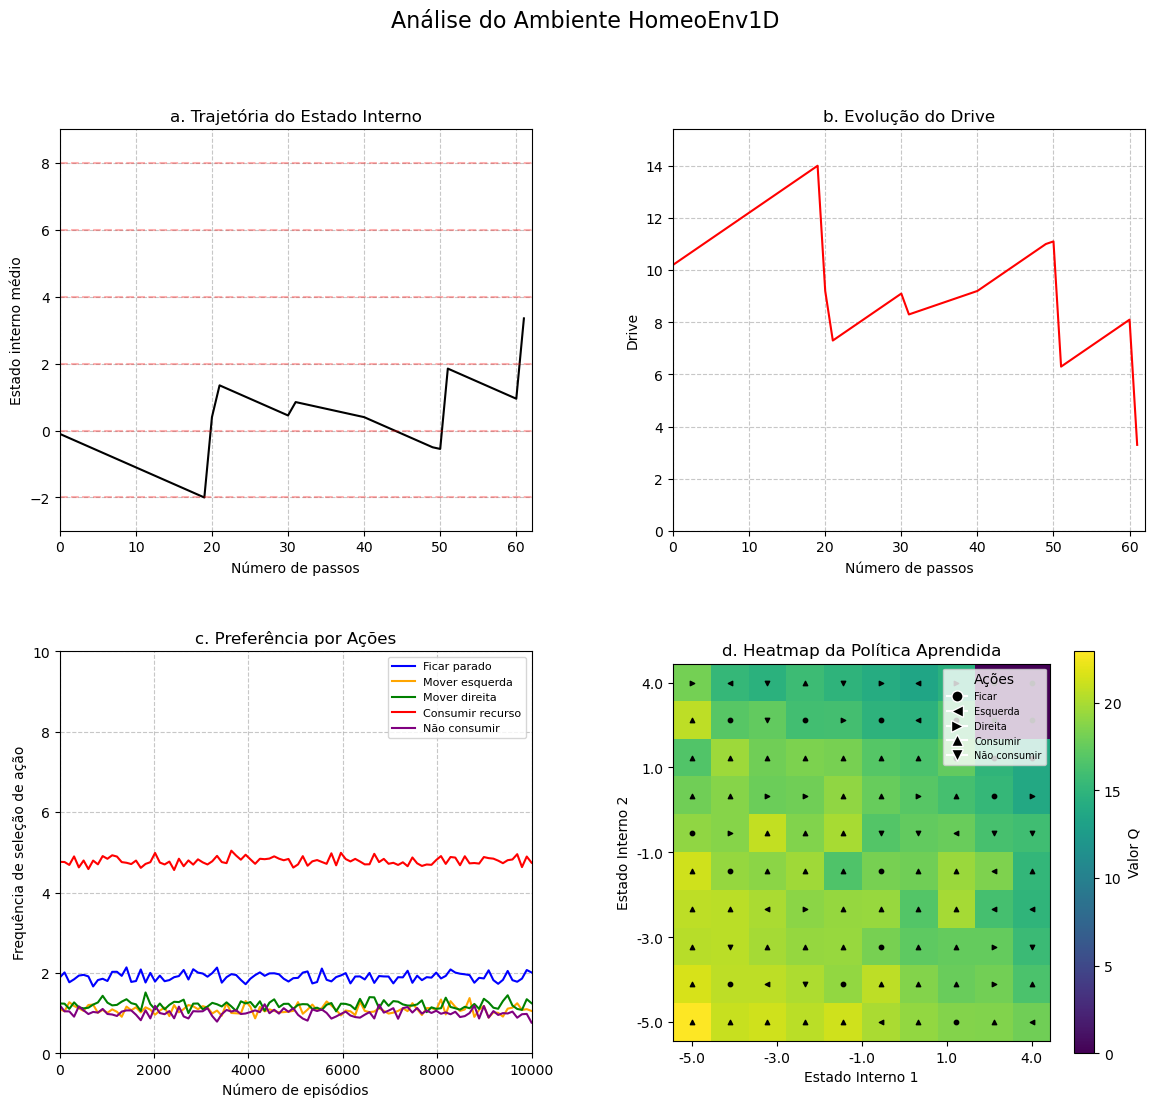
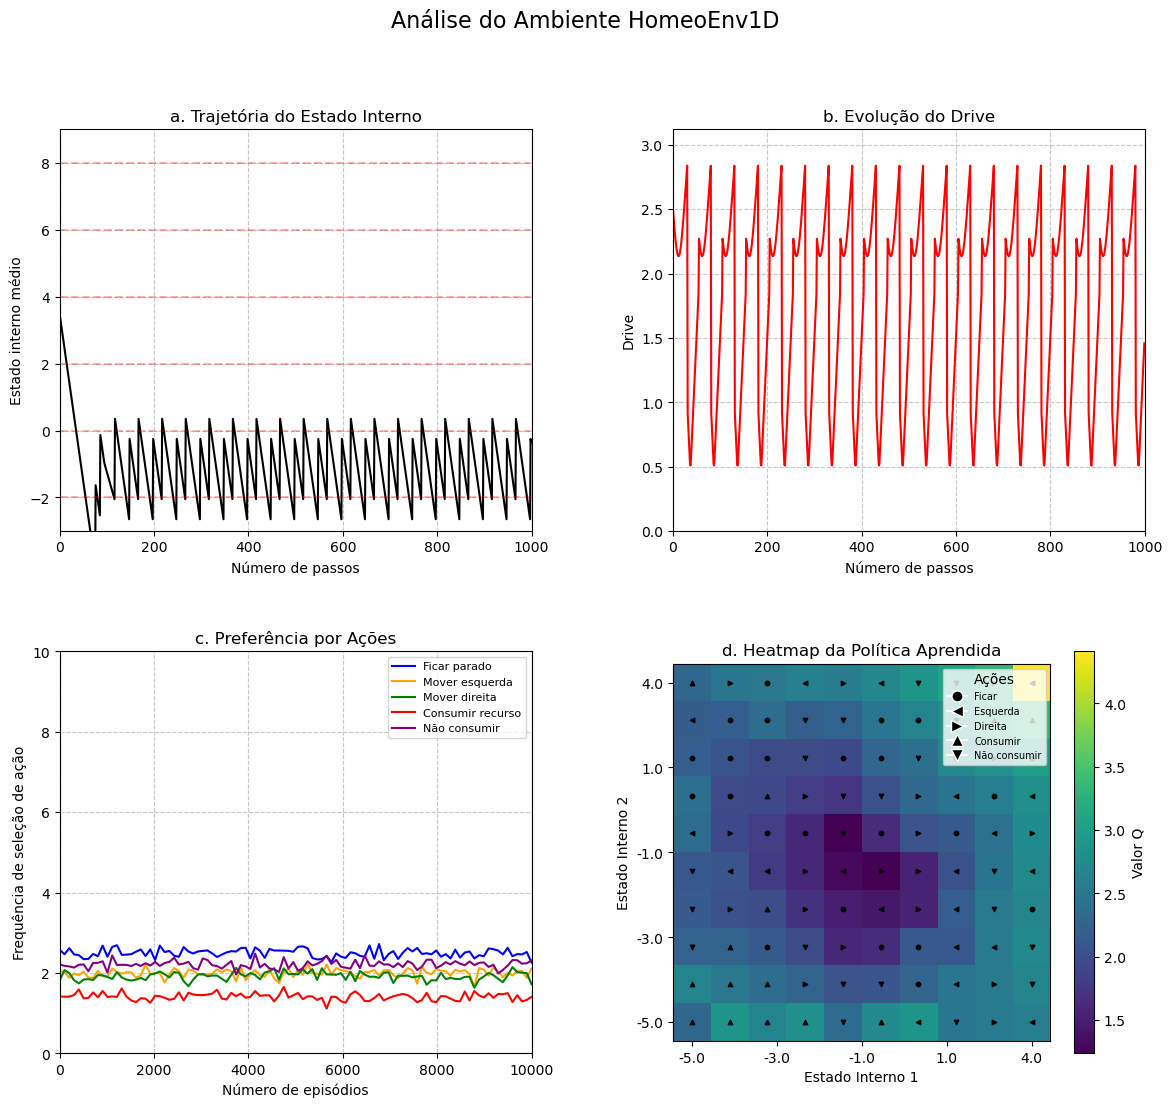
🚧 Done is nonsense in the case of HRRL, besides that we need to eliminate resources

diff --git a/src/custom_env/one_dimensional.py b/src/custom_env/one_dimensional.py
@@ -14,7 +14,7 @@ class HomeoEnv1D:
         self.render_mode = render_mode
         self.enable_visualization = enable_visualization
 
-        self._outcome = 5
+        self._outcome = 7
 
         self.param_manager = ParameterHandler(config_path)
         self.drive = self.param_manager.create_drive(drive_type)
@@ -23,7 +23,13 @@ class HomeoEnv1D:
         self.optimal_point = tuple(tensor.tolist())
 
         self.size = self.drive.get_internal_state_size()
-        self.current_state = np.zeros(self.size, dtype=np.float32)
+        # Gera um estado aleatório diferente do ótimo
+        while True:
+            random_state = np.random.uniform(-self.maxh, self.maxh, self.size).astype(np.float32)
+            if not np.allclose(random_state, self.optimal_point, atol=0.1):
+                break
+
+        self.current_state = random_state
         initial_drive = self.drive.compute_drive(self.current_state)
         self.drive.update_drive(initial_drive)
 
@@ -35,8 +41,8 @@ class HomeoEnv1D:
         self.learning_rate = 0.5
         self.gamma = 0.99
         self.epsilon = 1.0
-        self.epsilon_min = 0.001
-        self.epsilon_decay = 0.999
+        self.epsilon_min = 0.05
+        self.epsilon_decay = 0.995
 
         # Históricos para visualização
         self.history = {"states": [], "drive": [], "reward": [], "position": []}
@@ -66,7 +72,13 @@ class HomeoEnv1D:
         return tuple(discretized)
 
     def reset(self):
-        self.current_state = np.zeros(self.size, dtype=np.float32)
+        # Gera um estado aleatório diferente do ótimo
+        while True:
+            random_state = np.random.uniform(-self.maxh, self.maxh, self.size).astype(np.float32)
+            if not np.allclose(random_state, self.optimal_point, atol=0.1):
+                break
+
+        self.current_state = random_state
         initial_drive = self.drive.compute_drive(self.current_state)
         self.drive.update_drive(initial_drive)
         self.agent_position = 0
@@ -174,6 +186,7 @@ class HomeoEnv1D:
                 self.current_reward = total_reward
                 
                 # Verificação de término
+                done = False
                 if done or truncated:
                     break
 
@@ -825,6 +838,8 @@ class HomeoEnv1D:
                 
                 # Define a direção do vetor baseada na ação
                 dx, dy = action_vectors[best_action]
+                if dx == 0 and dy == 0:
+                    dx, dy = (0.1, 0.1)  # só para não ficar invisível no gráfico
                 U[i, j] = dx
                 V[i, j] = dy
                 
@@ -903,6 +918,7 @@ class HomeoEnv1D:
             state_idx = next_state_idx
             
             # Verifica se terminou
+            done = False
             if done or truncated:
                 break
         

diff --git a/src/scripts/custom_env/evaluate_1d.py b/src/scripts/custom_env/evaluate_1d.py
@@ -29,7 +29,7 @@ def main():
     drive_type = "base_drive"
     q_table_path = "models/custom/HomeoEnv1D/q_table.npy"
     num_eval_episodes = 5
-    max_steps_per_episode = 1000
+    max_steps_per_episode = 300
     save_gif_path = "images/custom/homeoenv/evaluation.gif"
     
     # Configuração para visualização
@@ -129,6 +129,7 @@ def main():
                 time.sleep(delay_between_steps)
             
             # Verificar condição de término
+            done = False
             if done:
                 print(f"  Episódio terminado com sucesso após {step+1} passos!")
                 break
